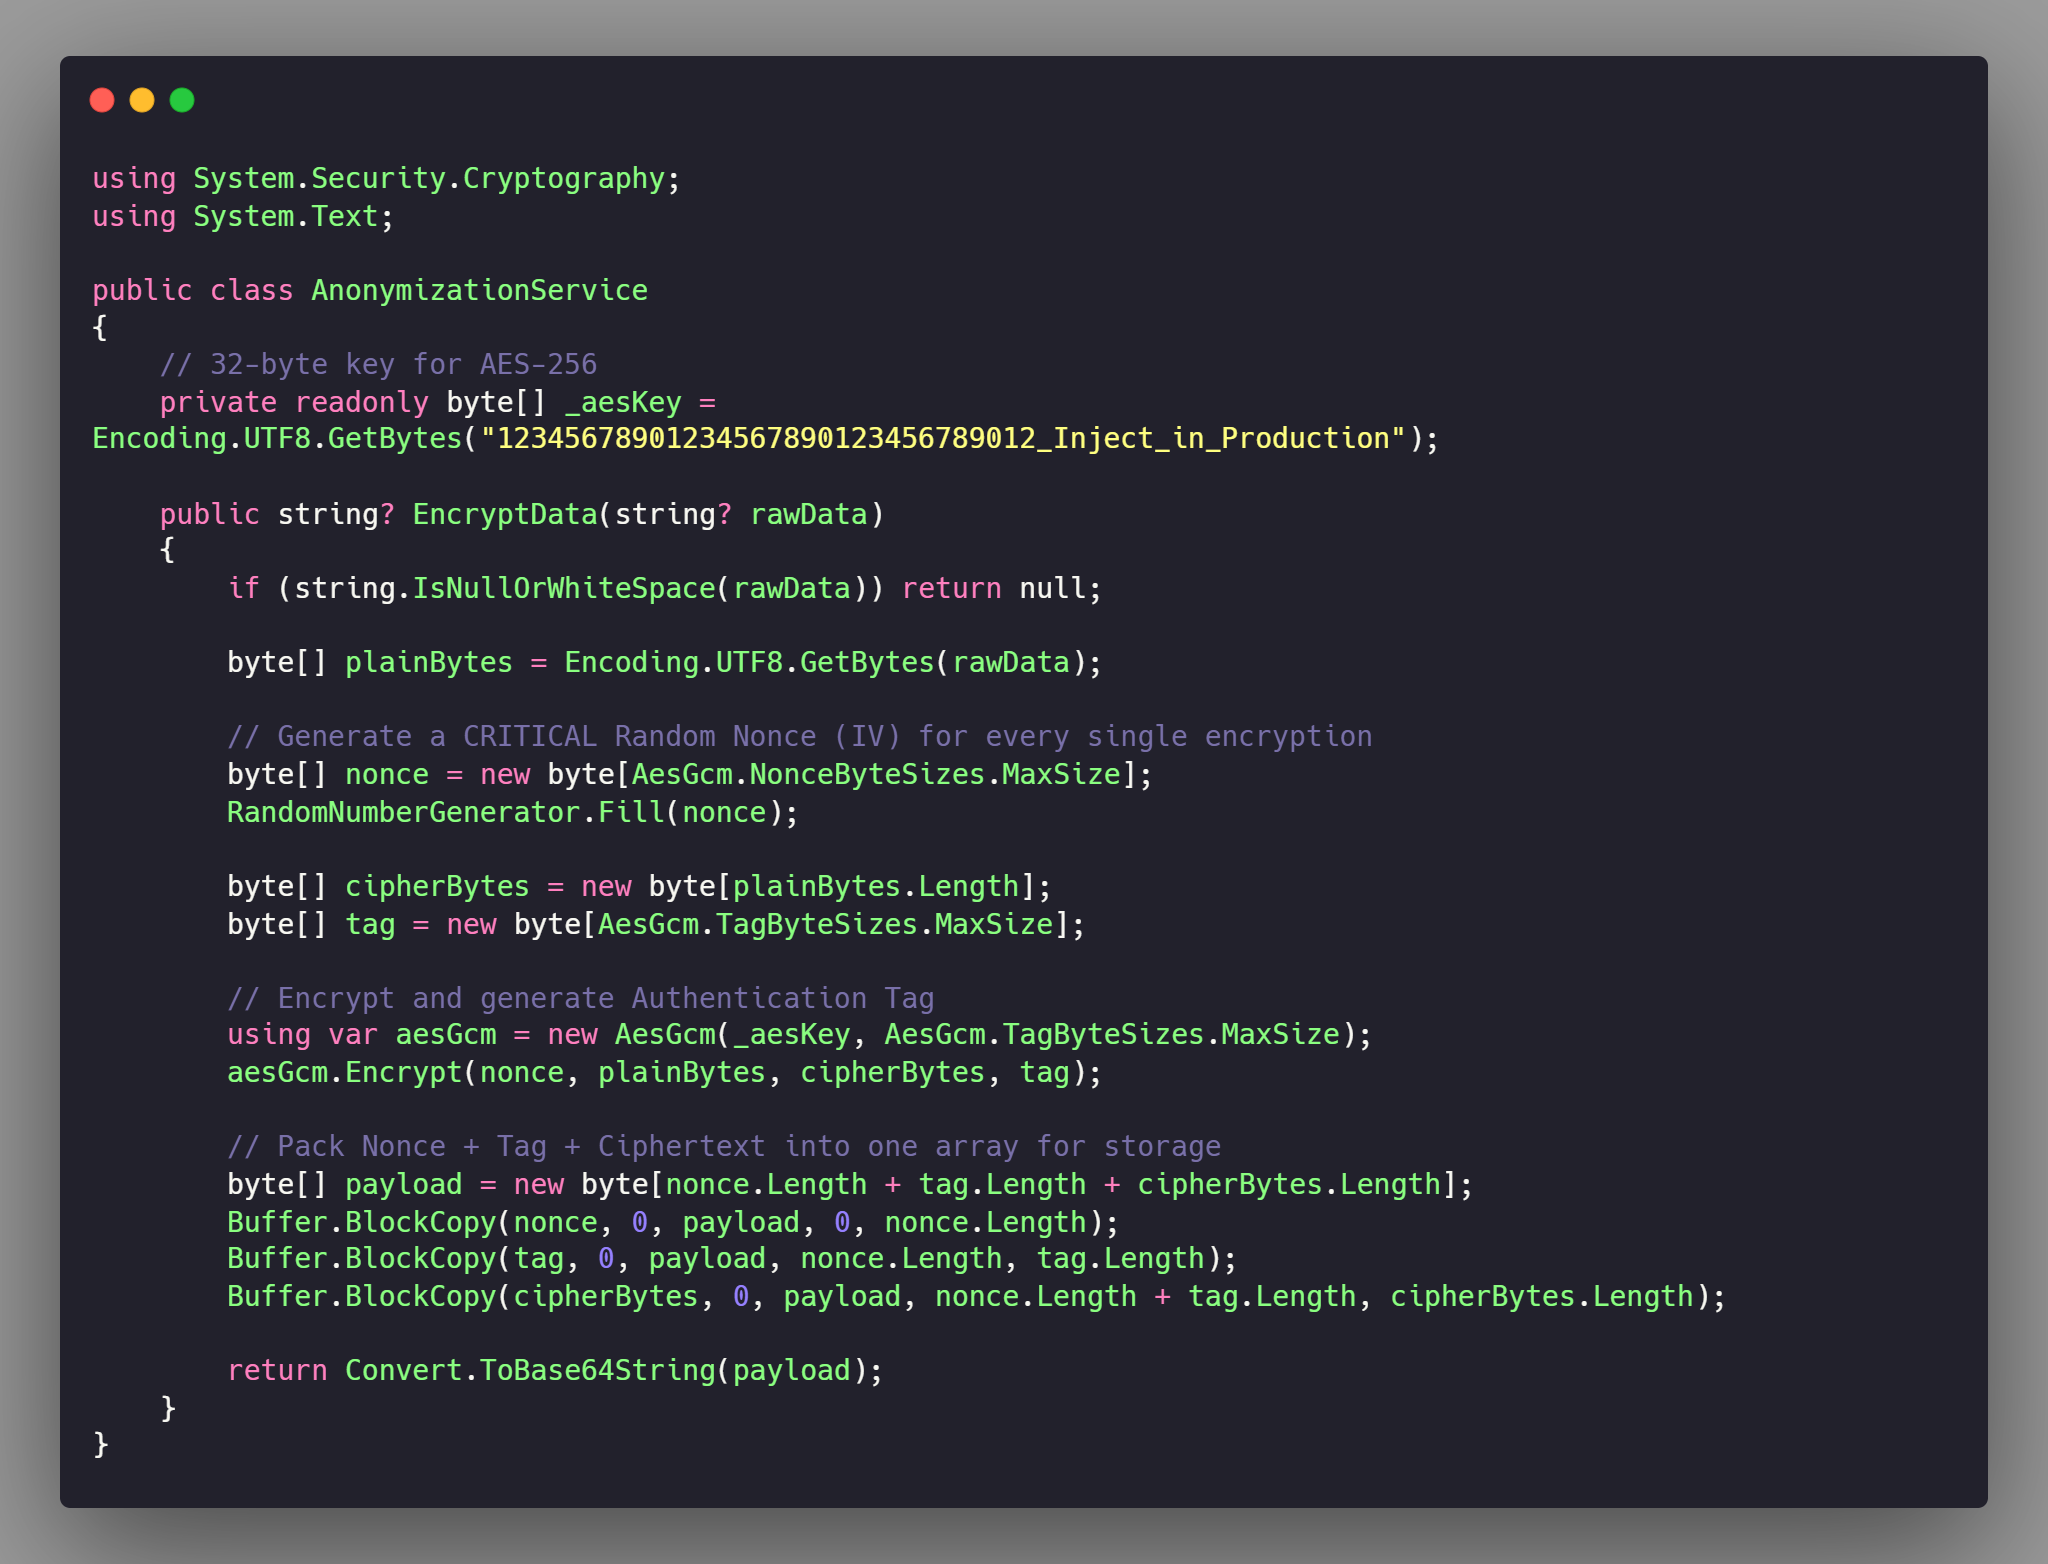
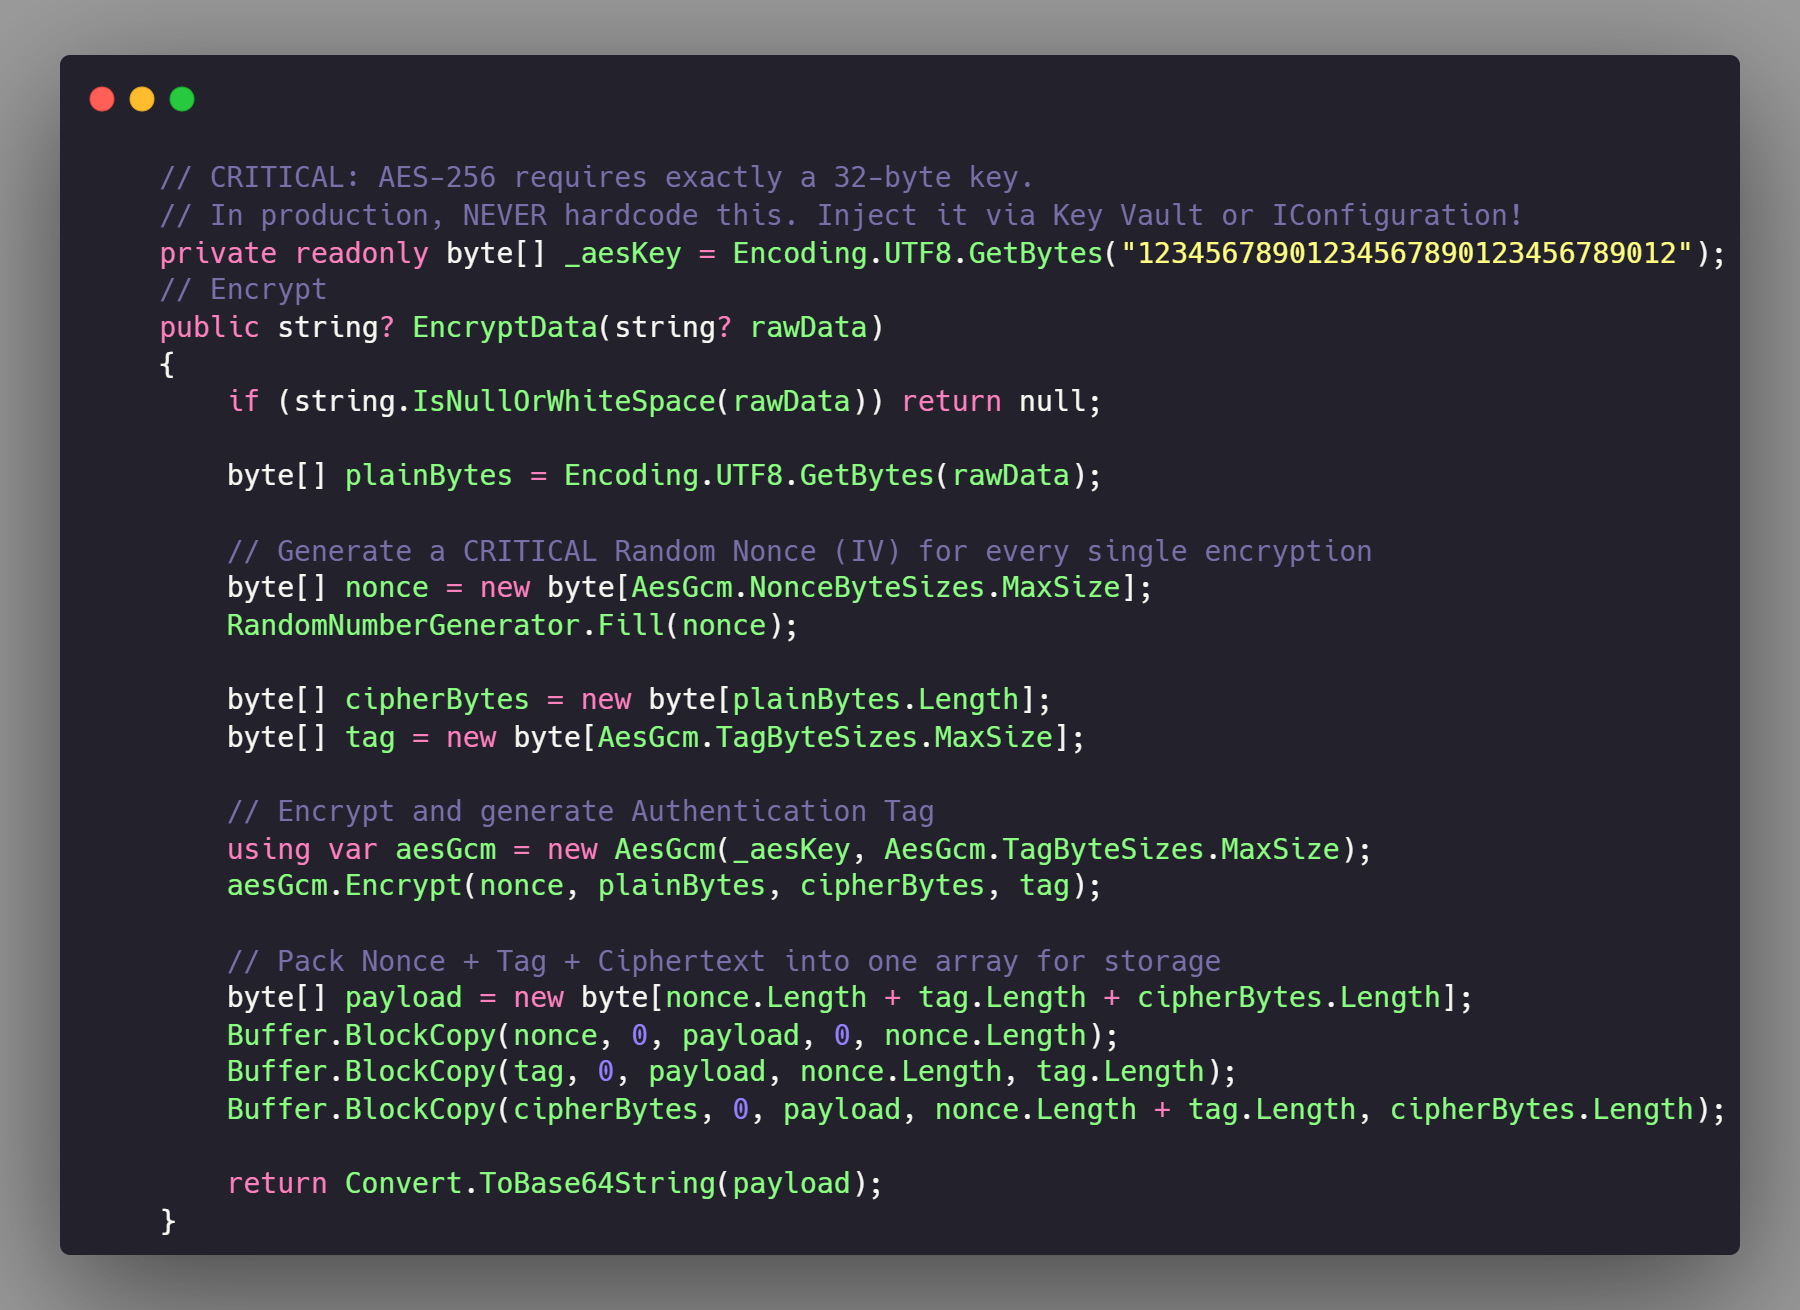
Push files to github

Changed region(s): [[0.0311, 0.0305, 0.9956, 0.9466], [0.0311, 0.916, 0.9644, 0.9771], [0.7467, 0.7328, 0.8089, 0.7634]]

diff --git a/src/AnonymizationService.cs b/src/AnonymizationService.cs
@@ -6,7 +6,7 @@ public class AnonymizationService
     // In production, inject this via Key Vault or secure configuration like IConfiguration
     private readonly byte[] _hmacKey = Encoding.UTF8.GetBytes("Secret_Server_Side_Key_Here");
     // 32-byte key for AES-256. Inject securely in production!
-    private readonly byte[] _aesKey = Encoding.UTF8.GetBytes("12345678901234567890123456789012");
+    private readonly byte[] _aesKey = Encoding.UTF8.GetBytes("12345678901234567890123456789012_Inject_in_Production");
 
     // Deterministic Hashing for Searchable exact-matches (Such as NationalId)
     public string? HashData(string? rawData)
@@ -49,7 +49,6 @@ public class AnonymizationService
         Buffer.BlockCopy(cipherBytes, 0, payload, nonce.Length + tag.Length, cipherBytes.Length);
 
         return Convert.ToBase64String(payload);
-
     }
 
     // Decrypt

diff --git a/readme.md b/readme.md
@@ -39,12 +39,97 @@ For data that must be read and displayed back to the UI (e.g., `Phone`, `Address
 
 #### Hashing (HMACSHA256)
 
-![Hash Implementation](./docs/images/hash_implementation.png)
+```csharp
+    // In production, inject this via Key Vault or secure configuration like IConfiguration
+    private readonly byte[] _hmacKey = Encoding.UTF8.GetBytes("Secret_Server_Side_Key_Here");
+    // Deterministic Hashing for Searchable exact-matches (Such as NationalId)
+    public string? HashData(string? rawData)
+    {
+        if (string.IsNullOrWhiteSpace(rawData)) return null;
+
+        // 1. Create HMAC instance with the secret key
+        using var hmac = new HMACSHA256(_hmacKey);
+
+        // 2. Normalize input (uppercase/trim) to ensure consistent DB queries
+        byte[] inputBytes = Encoding.UTF8.GetBytes(rawData.Trim().ToUpperInvariant());
+        byte[] hashBytes = hmac.ComputeHash(inputBytes);
+
+        // 3. Return as Hex string for easy database storage
+        return Convert.ToHexString(hashBytes).ToLowerInvariant();
+    }
+```
+
+![Hash Implementation](./images/hash_implementation.png)
 
 #### Encryption & Decryption (AES-GCM)
 
-![Encrypt Implementation](./docs/images/encrypt_implementation.png)
-![Decrypt Implementation](./docs/images/decrypt_implementation.png)
+```csharp
+    // CRITICAL: AES-256 requires exactly a 32-byte key.
+    // In production, NEVER hardcode this. Inject it via Key Vault or IConfiguration!
+    private readonly byte[] _aesKey = Encoding.UTF8.GetBytes("12345678901234567890123456789012");
+    // Encrypt
+    public string? EncryptData(string? rawData)
+    {
+        if (string.IsNullOrWhiteSpace(rawData)) return null;
+
+        byte[] plainBytes = Encoding.UTF8.GetBytes(rawData);
+
+        // Generate a CRITICAL Random Nonce (IV) for every single encryption
+        byte[] nonce = new byte[AesGcm.NonceByteSizes.MaxSize];
+        RandomNumberGenerator.Fill(nonce);
+
+        byte[] cipherBytes = new byte[plainBytes.Length];
+        byte[] tag = new byte[AesGcm.TagByteSizes.MaxSize];
+
+        // Encrypt and generate Authentication Tag
+        using var aesGcm = new AesGcm(_aesKey, AesGcm.TagByteSizes.MaxSize);
+        aesGcm.Encrypt(nonce, plainBytes, cipherBytes, tag);
+
+        // Pack Nonce + Tag + Ciphertext into one array for storage
+        byte[] payload = new byte[nonce.Length + tag.Length + cipherBytes.Length];
+        Buffer.BlockCopy(nonce, 0, payload, 0, nonce.Length);
+        Buffer.BlockCopy(tag, 0, payload, nonce.Length, tag.Length);
+        Buffer.BlockCopy(cipherBytes, 0, payload, nonce.Length + tag.Length, cipherBytes.Length);
+
+        return Convert.ToBase64String(payload);
+    }
+```
+
+![Encrypt Implementation](./images/encrypt_implementation.png)
+
+```csharp
+    // Decrypt
+    public string? DecryptData(string? encryptedData)
+    {
+        if (string.IsNullOrWhiteSpace(encryptedData)) return null;
+
+        byte[] payload = Convert.FromBase64String(encryptedData);
+
+        int nonceSize = AesGcm.NonceByteSizes.MaxSize;
+        int tagSize = AesGcm.TagByteSizes.MaxSize;
+        int cipherSize = payload.Length - nonceSize - tagSize;
+
+        // Extract the components from the database string
+        byte[] nonce = new byte[nonceSize];
+        byte[] tag = new byte[tagSize];
+        byte[] cipherBytes = new byte[cipherSize];
+
+        Buffer.BlockCopy(payload, 0, nonce, 0, nonceSize);
+        Buffer.BlockCopy(payload, nonceSize, tag, 0, tagSize);
+        Buffer.BlockCopy(payload, nonceSize + tagSize, cipherBytes, 0, cipherSize);
+
+        byte[] plainBytes = new byte[cipherSize];
+
+        // Decrypt.
+        // This will automatically throw an exception if data was tampered with
+        using var aesGcm = new AesGcm(_aesKey, tagSize);
+        aesGcm.Decrypt(nonce, cipherBytes, tag, plainBytes);
+
+        return Encoding.UTF8.GetString(plainBytes);
+    }
+```
+
+![Decrypt Implementation](./images/decrypt_implementation.png)
 
 ---
 
@@ -53,6 +138,22 @@ For data that must be read and displayed back to the UI (e.g., `Phone`, `Address
 ### 1. Generate a Secure AES Key (Developer Utility)
 
 Do **NOT** use hardcoded keys in production. To generate a cryptographically secure 32-byte key for your local environment, use the included utility method.
+
+```csharp
+   // Extra Developer Utility  for Generate Key for AES securely
+    public static string GenerateAesKey()
+    {
+        byte[] key = new byte[32];
+        // Using OS RandomNumberGenerator()
+        using (var rng = RandomNumberGenerator.Create())
+        {
+            // Generate key
+            rng.GetBytes(key);
+        }
+        Console.WriteLine($"AES Secure Key: {Convert.ToBase64String(key)}");
+        return Convert.ToBase64String(key);
+    }
+```
 
 In your `Program.cs` (Development environment only):
 
